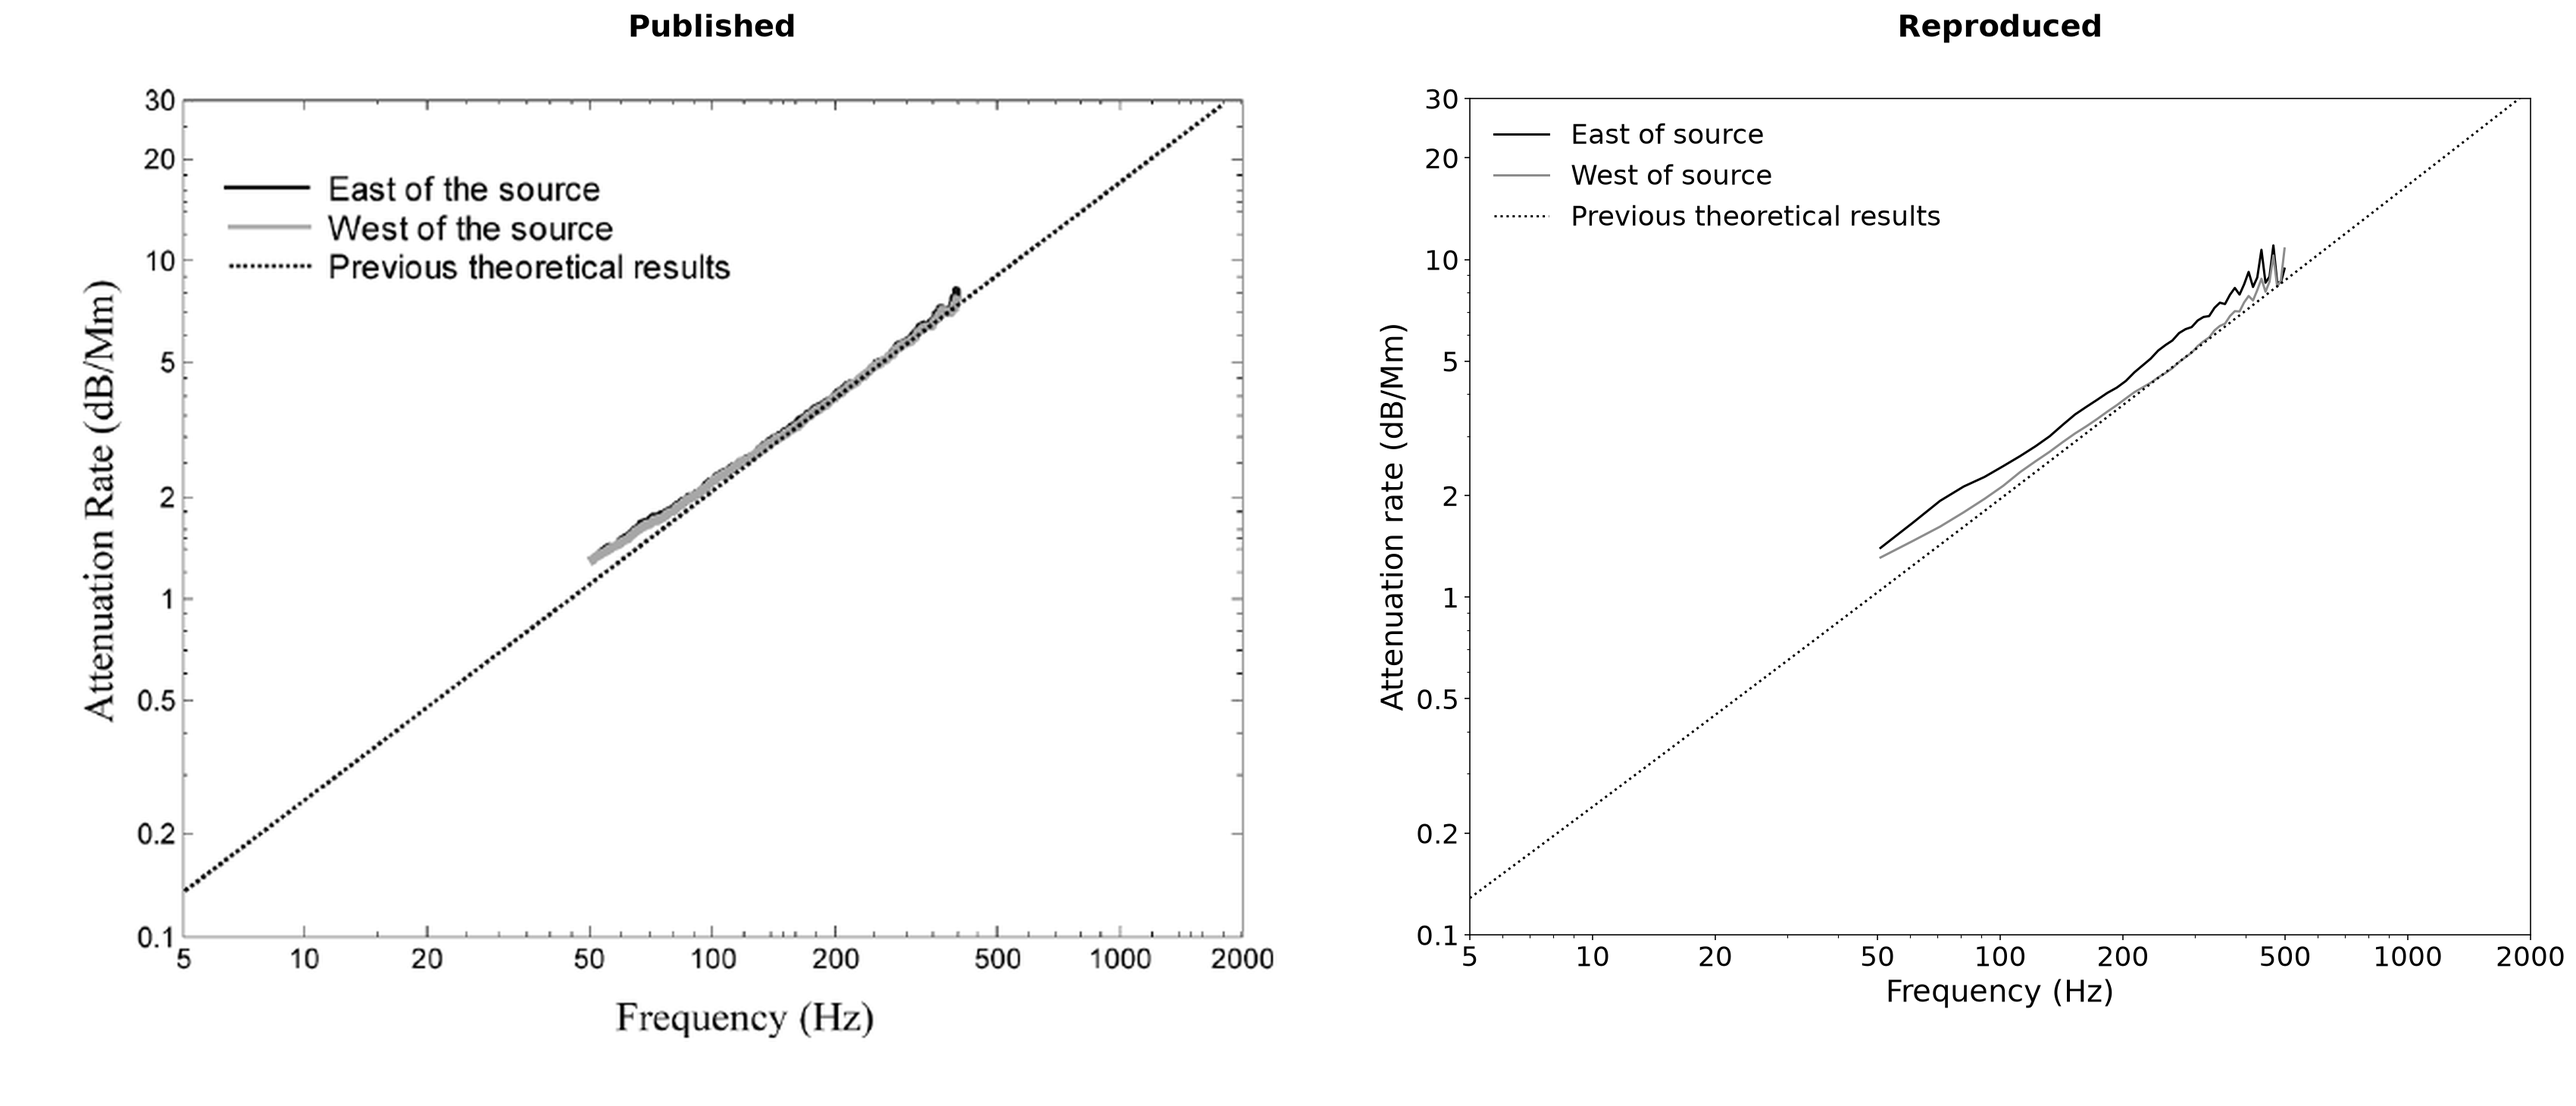
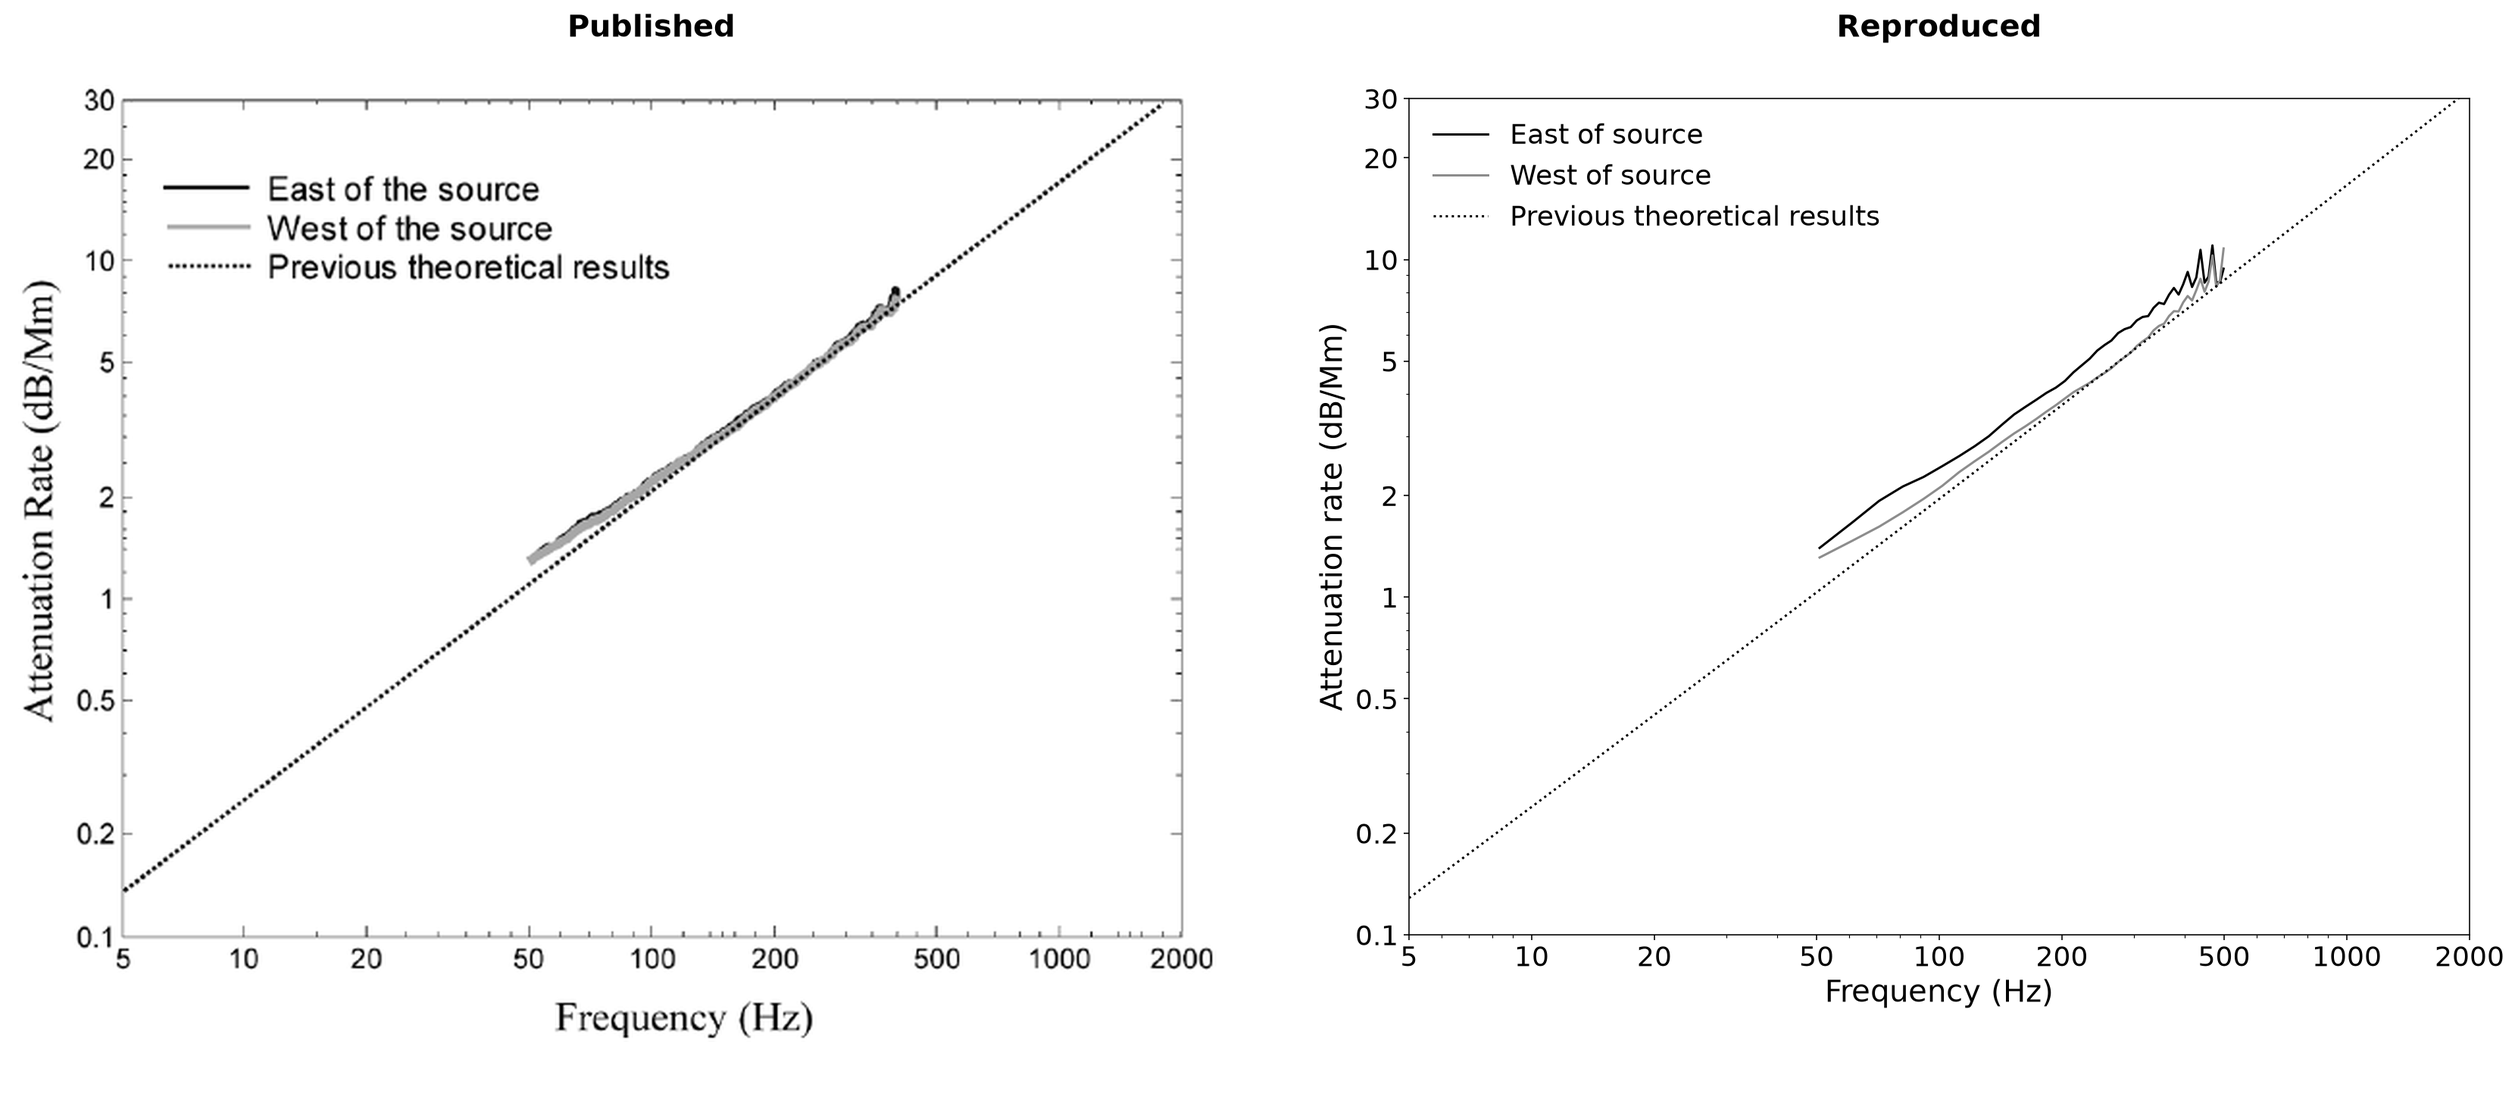
docs(verification): trim Figure 6 published margin
Remove another 80 pixels from the left side of the Simpson–Taflove 2006 Figure 6 comparison so its published panel has the same compact outer margin as Figures 5 and 7. Preserve the plot frames, labels, aspect ratios, and 300-pixel inter-panel gap.\n\nDocument the Figure 6 canvas width and verify the Simpson–Taflove regression suite (34 passed).

diff --git a/AGENTS.md b/AGENTS.md
@@ -122,8 +122,9 @@ Current geometry references:
   pixel canvas, with additional inter-column spacing for the enlarged
   reproduced y-axis label. Its reproduced panel uses 20-point axis labels and
   18-point major tick labels and legend text.
-- Simpson–Taflove 2006 comparison plots use a `3400 x 1460` pixel canvas,
-  20-point reproduced axis labels, and 18-point reproduced major tick labels
+- Simpson–Taflove 2006 comparison plots use a `3400 x 1460` pixel canvas for
+  Figures 5 and 7 and a tighter `3320 x 1460` canvas for Figure 6. They use
+  20-point reproduced axis labels and 18-point reproduced major tick labels
   and legend text. Their matched published/reproduced data frames are
   `1400 x 1111` pixels for Figure 5, `1400 x 1104` pixels for Figure 6, and
   `1400 x 1099` pixels for Figure 7, with a 300-pixel gap between the data
